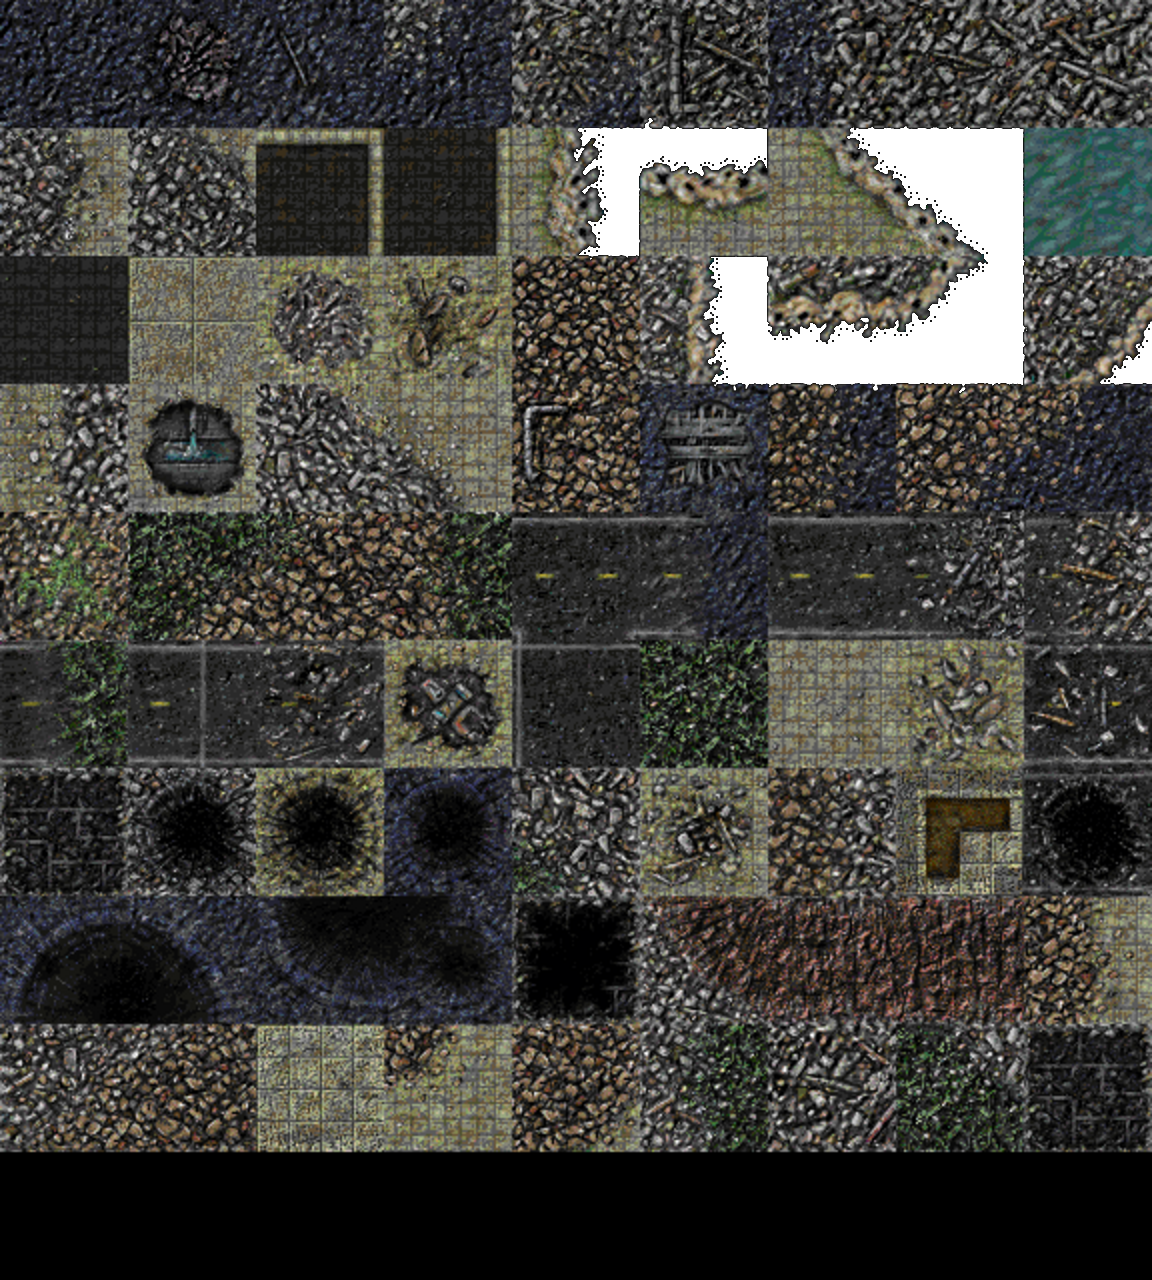
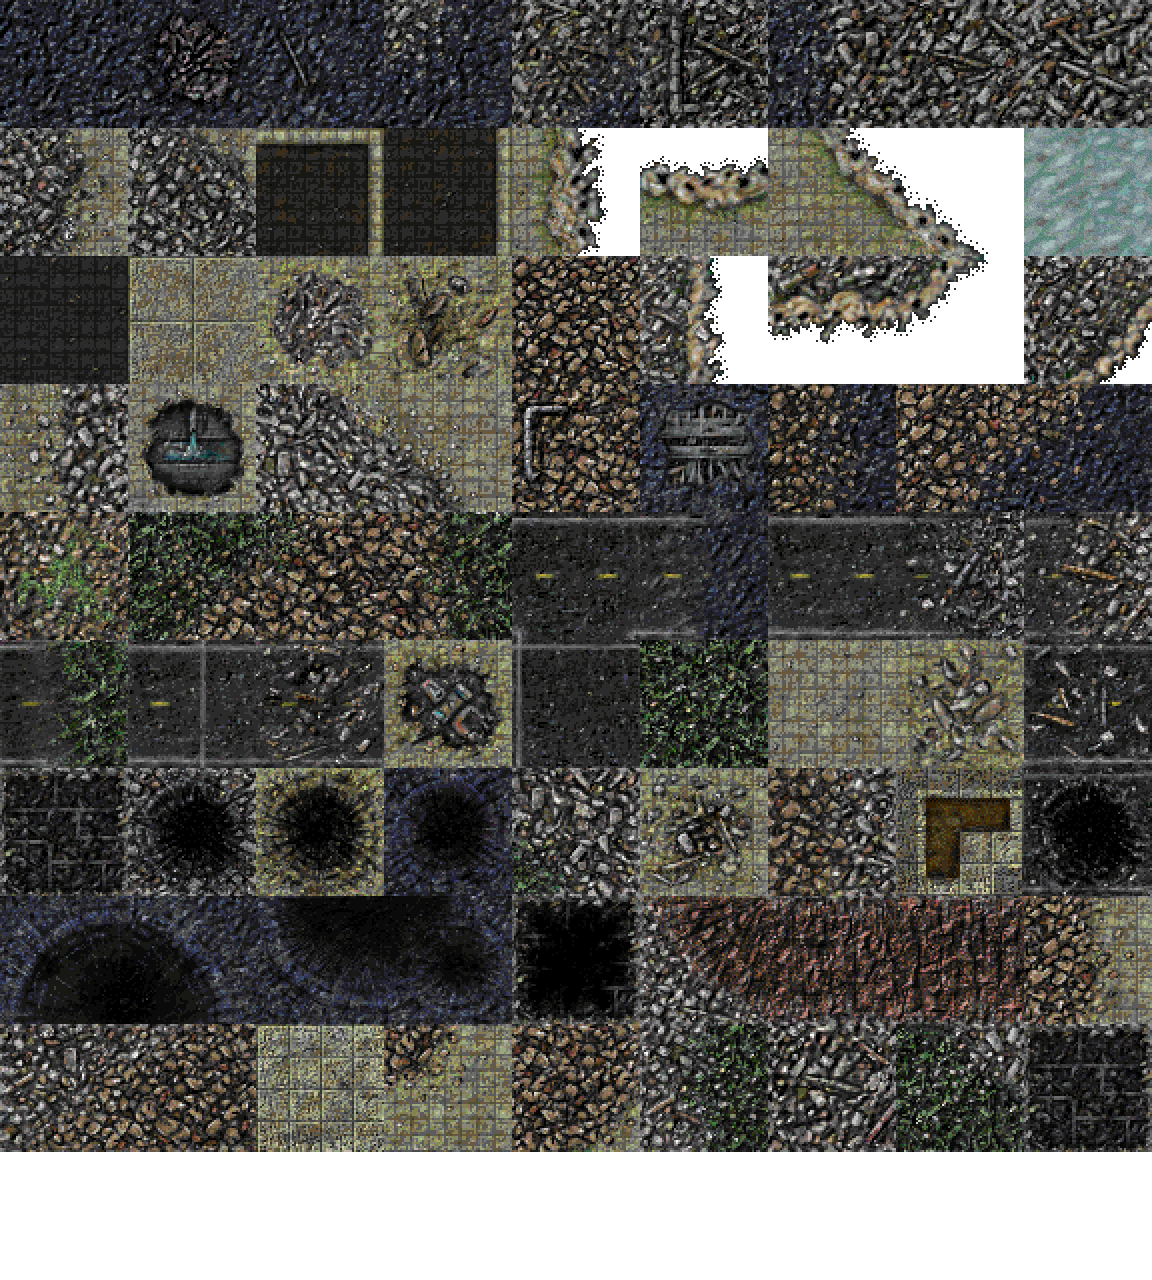
Apply patch #845 to reduce the dark borders around the terrain tiles. (The new tertiles files are different from those attached to the patch, this time I really did save the colour for transparent pixels.)
git-svn-id: svn+ssh://svn.gna.org/svn/warzone/branches/2.0@2896 4a71c877-e1ca-e34f-864e-861f7616d084

diff --git a/lib/ivis_opengl/tex.c b/lib/ivis_opengl/tex.c
@@ -128,10 +128,11 @@ int pie_AddBMPtoTexPages(iSprite* s, STRING* filename, int type, iBool bColourKe
 	}
 
 	glTexEnvf(GL_TEXTURE_ENV, GL_TEXTURE_ENV_MODE, GL_MODULATE);
-	glTexParameteri(GL_TEXTURE_2D, GL_TEXTURE_MIN_FILTER, GL_LINEAR_MIPMAP_NEAREST);
+	glTexParameteri(GL_TEXTURE_2D, GL_TEXTURE_MIN_FILTER, GL_LINEAR_MIPMAP_LINEAR);
 	glTexParameteri(GL_TEXTURE_2D, GL_TEXTURE_MAG_FILTER, GL_LINEAR);
-	glTexParameteri(GL_TEXTURE_2D, GL_TEXTURE_WRAP_S, GL_CLAMP);
-	glTexParameteri(GL_TEXTURE_2D, GL_TEXTURE_WRAP_T, GL_CLAMP);
+	glTexParameteri(GL_TEXTURE_2D, GL_TEXTURE_WRAP_S, GL_CLAMP_TO_EDGE);
+	glTexParameteri(GL_TEXTURE_2D, GL_TEXTURE_WRAP_T, GL_CLAMP_TO_EDGE);
+	glTexParameteri(GL_TEXTURE_2D, GL_TEXTURE_MAX_LOD, 3);
 
 	/* Send back the texpage number so we can store it in the IMD */
 
@@ -164,8 +165,8 @@ void pie_ChangeTexPage(int tex_index, iSprite* s, int type, iBool bColourKeyed, 
 	glTexEnvf(GL_TEXTURE_ENV, GL_TEXTURE_ENV_MODE, GL_MODULATE);
 	glTexParameteri(GL_TEXTURE_2D, GL_TEXTURE_MIN_FILTER, GL_LINEAR_MIPMAP_LINEAR);
 	glTexParameteri(GL_TEXTURE_2D, GL_TEXTURE_MAG_FILTER, GL_LINEAR);
-	glTexParameteri(GL_TEXTURE_2D, GL_TEXTURE_WRAP_S, GL_CLAMP);
-	glTexParameteri(GL_TEXTURE_2D, GL_TEXTURE_WRAP_T, GL_CLAMP);
+	glTexParameteri(GL_TEXTURE_2D, GL_TEXTURE_WRAP_S, GL_CLAMP_TO_EDGE);
+	glTexParameteri(GL_TEXTURE_2D, GL_TEXTURE_WRAP_T, GL_CLAMP_TO_EDGE);
 }
 
 /**************************************************************************

diff --git a/lib/ivis_opengl/screen.c b/lib/ivis_opengl/screen.c
@@ -427,8 +427,8 @@ void screen_SetBackDropFromFile(char* filename) {
 		glTexEnvf(GL_TEXTURE_ENV, GL_TEXTURE_ENV_MODE, GL_MODULATE);
 		glTexParameteri(GL_TEXTURE_2D, GL_TEXTURE_MIN_FILTER, GL_LINEAR);
 		glTexParameteri(GL_TEXTURE_2D, GL_TEXTURE_MAG_FILTER, GL_LINEAR);
-		glTexParameteri(GL_TEXTURE_2D, GL_TEXTURE_WRAP_S, GL_CLAMP);
-		glTexParameteri(GL_TEXTURE_2D, GL_TEXTURE_WRAP_T, GL_CLAMP);
+		glTexParameteri(GL_TEXTURE_2D, GL_TEXTURE_WRAP_S, GL_CLAMP_TO_EDGE);
+		glTexParameteri(GL_TEXTURE_2D, GL_TEXTURE_WRAP_T, GL_CLAMP_TO_EDGE);
 	}
 
 	image_delete(&image);
@@ -466,8 +466,8 @@ void screen_Upload(UWORD* newBackDropBmp)
 	glTexEnvf(GL_TEXTURE_ENV, GL_TEXTURE_ENV_MODE, GL_MODULATE);
 	glTexParameteri(GL_TEXTURE_2D, GL_TEXTURE_MIN_FILTER, GL_LINEAR);
 	glTexParameteri(GL_TEXTURE_2D, GL_TEXTURE_MAG_FILTER, GL_LINEAR);
-	glTexParameteri(GL_TEXTURE_2D, GL_TEXTURE_WRAP_S, GL_CLAMP);
-	glTexParameteri(GL_TEXTURE_2D, GL_TEXTURE_WRAP_T, GL_CLAMP);
+	glTexParameteri(GL_TEXTURE_2D, GL_TEXTURE_WRAP_S, GL_CLAMP_TO_EDGE);
+	glTexParameteri(GL_TEXTURE_2D, GL_TEXTURE_WRAP_T, GL_CLAMP_TO_EDGE);
 	}
 
 	glDisable(GL_DEPTH_TEST);

diff --git a/lib/ivis_opengl/pieblitfunc.c b/lib/ivis_opengl/pieblitfunc.c
@@ -490,8 +490,8 @@ void pie_DownLoadRadar(unsigned char *buffer, UDWORD texPageID)
 	glTexEnvf(GL_TEXTURE_ENV, GL_TEXTURE_ENV_MODE, GL_MODULATE);
 	glTexParameteri(GL_TEXTURE_2D, GL_TEXTURE_MIN_FILTER, GL_LINEAR);
 	glTexParameteri(GL_TEXTURE_2D, GL_TEXTURE_MAG_FILTER, GL_LINEAR);
-	glTexParameteri(GL_TEXTURE_2D, GL_TEXTURE_WRAP_S, GL_CLAMP);
-	glTexParameteri(GL_TEXTURE_2D, GL_TEXTURE_WRAP_T, GL_CLAMP);
+	glTexParameteri(GL_TEXTURE_2D, GL_TEXTURE_WRAP_S, GL_CLAMP_TO_EDGE);
+	glTexParameteri(GL_TEXTURE_2D, GL_TEXTURE_WRAP_T, GL_CLAMP_TO_EDGE);
 }
 
 void pie_RenderRadar(IMAGEDEF *Image,iBitmap *Bmp,UDWORD Modulus,int x,int y)

diff --git a/src/multiint.c b/src/multiint.c
@@ -320,8 +320,8 @@ void Show_Map(char *imagedata)
 	glTexEnvf(GL_TEXTURE_ENV, GL_TEXTURE_ENV_MODE, GL_MODULATE);
 	glTexParameteri(GL_TEXTURE_2D, GL_TEXTURE_MIN_FILTER, GL_LINEAR);
 	glTexParameteri(GL_TEXTURE_2D, GL_TEXTURE_MAG_FILTER, GL_LINEAR);
-	glTexParameteri(GL_TEXTURE_2D, GL_TEXTURE_WRAP_S, GL_CLAMP);
-	glTexParameteri(GL_TEXTURE_2D, GL_TEXTURE_WRAP_T, GL_CLAMP);
+	glTexParameteri(GL_TEXTURE_2D, GL_TEXTURE_WRAP_S, GL_CLAMP_TO_EDGE);
+	glTexParameteri(GL_TEXTURE_2D, GL_TEXTURE_WRAP_T, GL_CLAMP_TO_EDGE);
 	image_delete(&image);
 //	free(image);
 	glDisable(GL_DEPTH_TEST);

diff --git a/lib/ivis_opengl/piefunc.c b/lib/ivis_opengl/piefunc.c
@@ -208,7 +208,7 @@ void pie_DrawSkybox(iView player, iView camera, float rotation, int texpage, int
 
 	// the texture wraps over at the edges (repeat)
 	glTexParameterf(GL_TEXTURE_2D, GL_TEXTURE_WRAP_S, GL_REPEAT);
-	glTexParameterf(GL_TEXTURE_2D, GL_TEXTURE_WRAP_T, GL_CLAMP);
+	glTexParameterf(GL_TEXTURE_2D, GL_TEXTURE_WRAP_T, GL_CLAMP_TO_EDGE);
 
 	// fog should not affect the sky
 	glDisable(GL_FOG);
